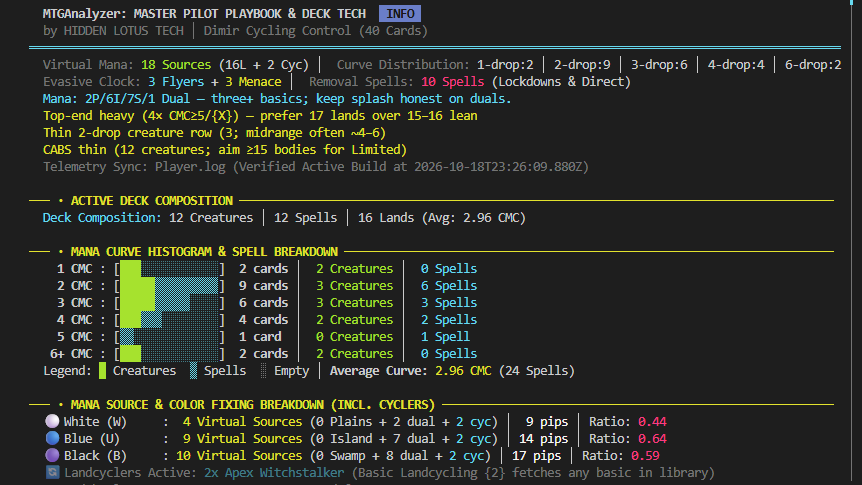
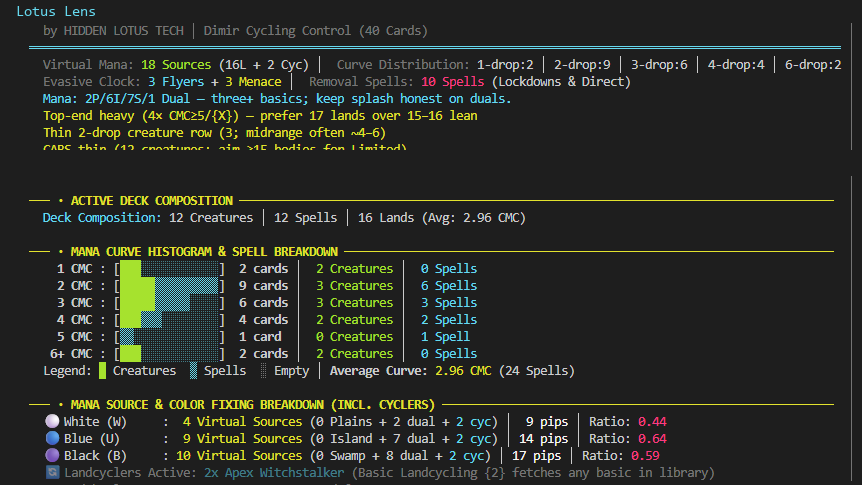
Share: honest install, open source without MIT, noindex

Changed region(s): [[0.0603, 0.3093, 0.6937, 0.3711], [0.0302, 0.0, 0.5128, 0.0619]]

diff --git a/index.html b/index.html
@@ -6,20 +6,22 @@
 <title>Lotus Lens: open-source MTG Arena draft copilot</title>
 <meta name="description" content="Lotus Lens is a free, open-source, local-first copilot for MTG Arena Limited: draft, build, play and debrief. Reads your Player.log read-only. Bring your own AI via MCP.">
 <meta name="theme-color" content="#0a0a0a">
+<meta name="robots" content="noindex,nofollow">
 <link rel="canonical" href="https://lens.hiddenlotus.tech/">
 <meta property="og:type" content="website">
 <meta property="og:title" content="Lotus Lens: open-source MTG Arena draft copilot">
 <meta property="og:description" content="Draft, build, play, debrief. Local-first. Bring your own AI. By Hidden Lotus Tech.">
 <meta property="og:url" content="https://lens.hiddenlotus.tech/">
-<meta property="og:image" content="https://lens.hiddenlotus.tech/og.jpg">
+<meta property="og:image" content="https://lens.hiddenlotus.tech/og.jpg?v=loupe">
 <meta property="og:image:width" content="1200"><meta property="og:image:height" content="630">
 <meta name="twitter:card" content="summary_large_image">
-<meta name="twitter:site" content="@hiddenlotustech">
+<meta name="twitter:site" content="@HIDDENLOTUSTECH">
+<meta name="twitter:image" content="https://lens.hiddenlotus.tech/og.jpg?v=loupe">
 <link rel="icon" href="/favicon.ico" sizes="any">
 <link rel="icon" href="/favicon.svg" type="image/svg+xml">
 <link rel="apple-touch-icon" href="/apple-touch-icon.png">
 <link rel="preload" href="assets/fonts/jost-var.woff2" as="font" type="font/woff2" crossorigin>
-<link rel="stylesheet" href="assets/style.css?v=free1">
+<link rel="stylesheet" href="assets/style.css?v=share1">
 <link rel="stylesheet" href="assets/hero-underlay.css">
 </head>
 <body>
@@ -29,7 +31,7 @@
   <a class="mark" href="https://hiddenlotus.tech" aria-label="Hidden Lotus Tech home">
     <img src="assets/img/hlt-monogram-white.png" alt="" width="28" height="28"><span>Hidden Lotus Tech</span>
   </a>
-  <nav aria-label="Sections"><a href="#what">What</a><a href="#install">Install</a><a href="#pricing">Free</a><a href="#faq">FAQ</a></nav>
+  <nav aria-label="Sections"><a href="#what">What</a><a href="#install">Install</a><a href="#pricing">Free</a><a href="#faq">FAQ</a><a href="https://x.com/HIDDENLOTUSTECH">X</a></nav>
 </header>
 
 <main id="main">
@@ -68,7 +70,7 @@
     <figure class="pane">
       <figcaption><span class="tag">Build</span> Pilot brief · mana curve</figcaption>
       <div class="pane-frame">
-        <img src="assets/img/demo-pilot.png" alt="Pilot brief: mana curve histogram and deck composition" width="862" height="485" loading="lazy" decoding="async">
+        <img src="assets/img/demo-pilot.png?v=ll1" alt="Pilot brief: mana curve histogram and deck composition" width="862" height="485" loading="lazy" decoding="async">
       </div>
     </figure>
     <figure class="pane">
@@ -82,21 +84,10 @@
 
 <section id="install" class="inst" aria-labelledby="inst-h">
   <h2 id="inst-h">Install <span class="soon">Coming soon</span></h2>
-  <p class="mut">Not released yet. The commands below are placeholders and will not work until launch.</p>
-  <h3>Any OS (Node.js 22+)</h3>
-<pre><code>npx lotus-lens</code></pre>
-  <h3>Windows: two commands</h3>
-<pre><code>winget install OpenJS.NodeJS.LTS
-npm install -g lotus-lens</code></pre>
-  <h3>Windows: Scoop</h3>
-<pre><code>scoop bucket add hlt https://github.com/&lt;owner&gt;/scoop-bucket
-scoop install lotus-lens</code></pre>
-  <h3>macOS: Homebrew</h3>
-<pre><code>brew install &lt;owner&gt;/tap/lotus-lens</code></pre>
-  <h3>macOS / Linux</h3>
-<pre><code>npm install -g lotus-lens
-lotus-lens doctor   <span class="c"># checks your log, Detailed Logs setting and data</span></code></pre>
-  <p class="mut">First run: in Arena, turn on Options → Account → "Detailed Logs (Plugin Support)", then restart Arena.</p>
+  <p class="big">Not released yet.</p>
+  <p>Lotus Lens isn't installable yet. When it is, the commands will live here — nothing to copy in the meantime.</p>
+  <p class="cta follow"><a class="btn" href="https://x.com/HIDDENLOTUSTECH">Follow @HIDDENLOTUSTECH</a></p>
+  <p class="mut">When it ships: in Arena, turn on Options → Account → "Detailed Logs (Plugin Support)", then restart Arena.</p>
 </section>
 
 <section id="pricing" aria-labelledby="price-h">
@@ -106,26 +97,10 @@ lotus-lens doctor   <span class="c"># checks your log, Detailed Logs setting and
     <article class="card p-1" aria-labelledby="p1">
       <h3 id="p1">Free</h3><p class="price">$0</p><p class="who">For everyone. Forever. Open source.</p>
       <ul><li>The full app: draft, build, play, debrief</li><li>MCP for your own AI (Claude, Cursor, Ollama)</li><li>No ads, no account</li></ul>
-      <p class="foot">npx lotus-lens</p>
-    </article>
-    <article class="card p-2 pending" aria-label="Possible extra, not decided">
-      <p class="pending-mark"><span>Unset</span></p>
-      <div class="pending-sketch" aria-hidden="true">
-        <h3>Edition</h3><p class="price">—</p><p class="who">A packaged build, if we ever make one.</p>
-        <ul><li>One-click installer</li><li>Automatic app and set updates</li><li>Convenience extras</li></ul>
-        <p class="foot">Optional. Not a plan.</p>
-      </div>
-    </article>
-    <article class="card p-3 pending" aria-label="Possible extra, not decided">
-      <p class="pending-mark"><span>Unset</span></p>
-      <div class="pending-sketch" aria-hidden="true">
-        <h3>Hosted coach</h3><p class="price">—</p><p class="who">A hosted AI coach, if we ever run one.</p>
-        <ul><li>Drafts, builds and reviews</li><li>Pay as you go, if at all</li><li>Your own AI stays free</li></ul>
-        <p class="foot">Optional. Not a plan.</p>
-      </div>
+      <p class="foot">No account needed</p>
     </article>
   </div>
-  <p class="combine">Nothing to buy to draft, build, play or debrief. Other paths stay open; none of them are committed.</p>
+  <p class="combine">Nothing to buy to draft, build, play or debrief.</p>
   <p class="support"><a href="#why">Why it's free</a></p>
 </section>
 
@@ -134,7 +109,7 @@ lotus-lens doctor   <span class="c"># checks your log, Detailed Logs setting and
   <p class="big">Every card and analysis feature stays free, for good.</p>
   <div class="grid">
     <div><h3>Fan content</h3><p>Lotus Lens is unofficial fan content. Wizards' Fan Content Policy asks that it stay free to access, and it will.</p></div>
-    <div><h3>Open source</h3><p>The code is MIT-licensed. You can read it, build it and run it yourself.</p></div>
+    <div><h3>Open source</h3><p>The code is open source. You can read it, build it and run it yourself.</p></div>
     <div><h3>If we ever charge</h3><p>Only for optional convenience or compute — never the analysis. Nothing is locked in.</p></div>
   </div>
 </section>
@@ -156,8 +131,8 @@ lotus-lens doctor   <span class="c"># checks your log, Detailed Logs setting and
       <p>Lotus Lens is unofficial Fan Content permitted under the <a href="https://company.wizards.com/en/legal/fancontentpolicy">Fan Content Policy</a>. Not approved/endorsed by Wizards. Portions of the materials used are property of Wizards of the Coast. ©Wizards of the Coast LLC.</p>
       <p>Card ratings use data from <a href="https://www.17lands.com/public_datasets">17Lands</a>, licensed <a href="https://creativecommons.org/licenses/by/4.0/">CC BY 4.0</a>. 17Lands is not affiliated with and does not endorse Lotus Lens.</p>
       <p>Card data from <a href="https://scryfall.com">Scryfall</a>. Not affiliated with or endorsed by Scryfall.</p>
-      <p>Code: MIT. No trackers on this page.</p>
-      <p><a href="https://hiddenlotus.tech">A Hidden Lotus Tech lab project</a></p>
+      <p>Open source. No trackers on this page.</p>
+      <p><a href="https://x.com/HIDDENLOTUSTECH">@HIDDENLOTUSTECH</a> · <a href="https://hiddenlotus.tech">A Hidden Lotus Tech lab project</a></p>
     </div>
     <img src="assets/img/hlt-logo-wordmark-white.png" alt="Hidden Lotus Technologies" width="96" height="99" loading="lazy">
   </div>

diff --git a/assets/style.css b/assets/style.css
@@ -47,6 +47,8 @@ code,pre{font-family:var(--mono)}
 pre{background:#111;border:1px solid var(--line);padding:1rem 1.25rem;overflow-x:auto;margin:.5rem 0 1.75rem;font-size:.9375rem;color:#d8d8d8}
 pre .c{color:var(--mut)}
 .inst h3{font-size:1.0625rem;margin-top:1.5rem}
+.inst .follow{margin:1.5rem 0 2rem}
+#pricing .cards{max-width:22rem}
 .cards{display:grid;gap:1.25rem;grid-template-columns:repeat(auto-fit,minmax(16rem,1fr))}
 .card{border:1px solid var(--line);padding:2rem 1.75rem;display:flex;flex-direction:column}
 .card .price{font:800 2.25rem/1 var(--sans);margin:1rem 0 .25rem}
